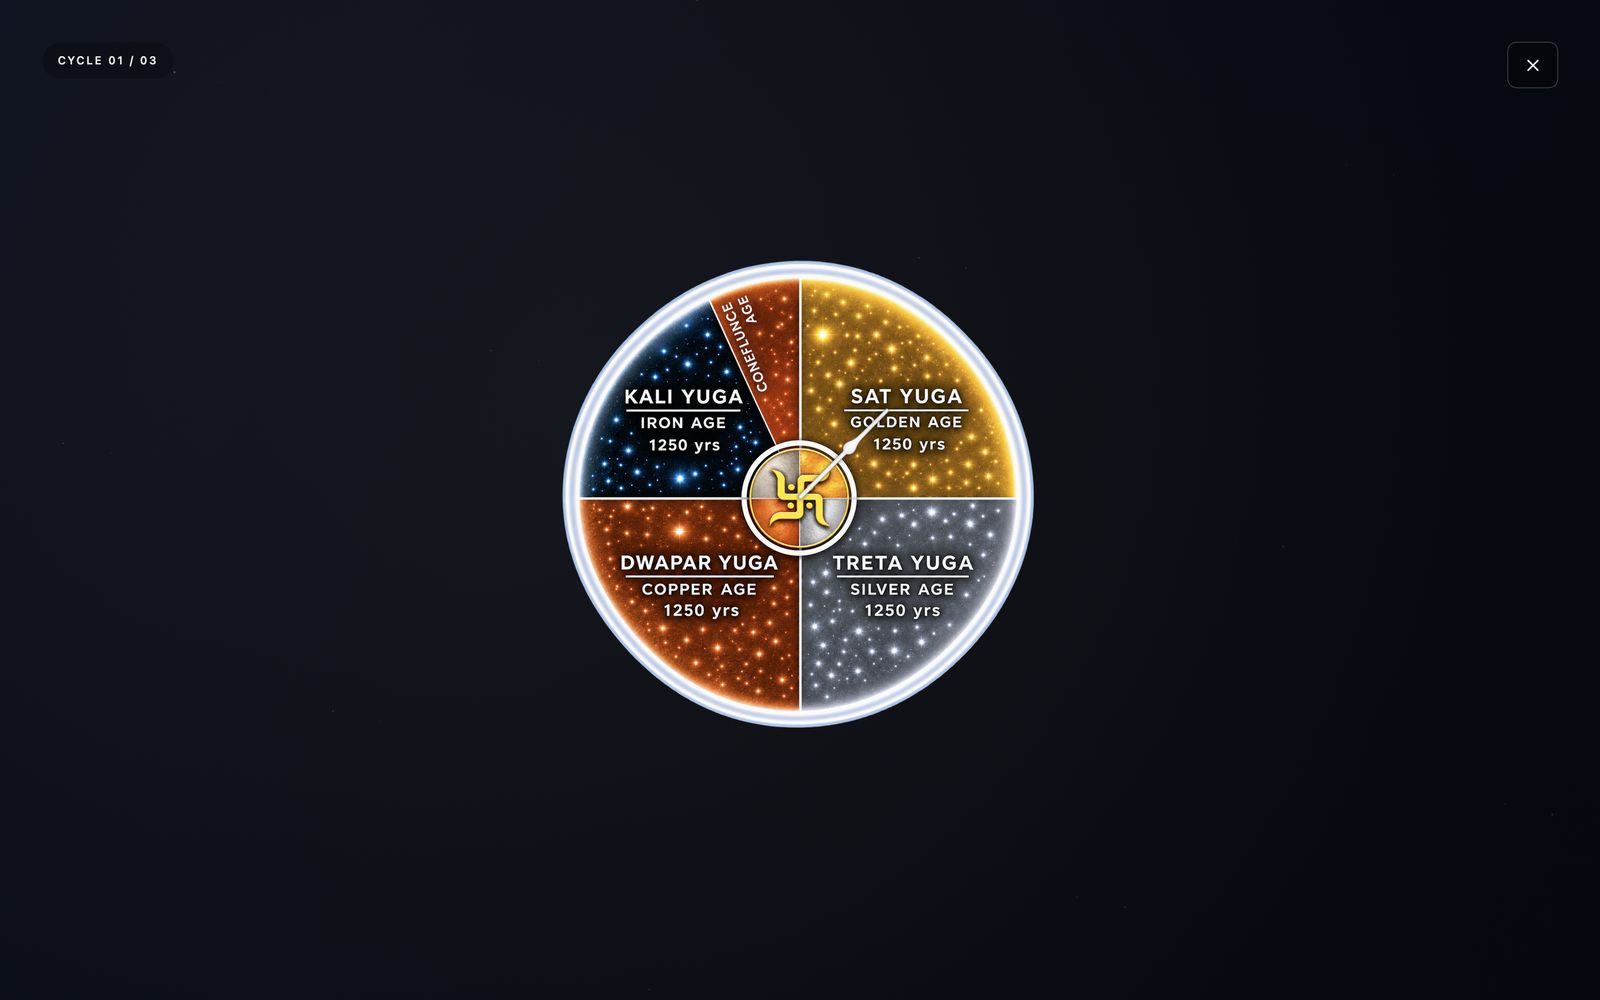
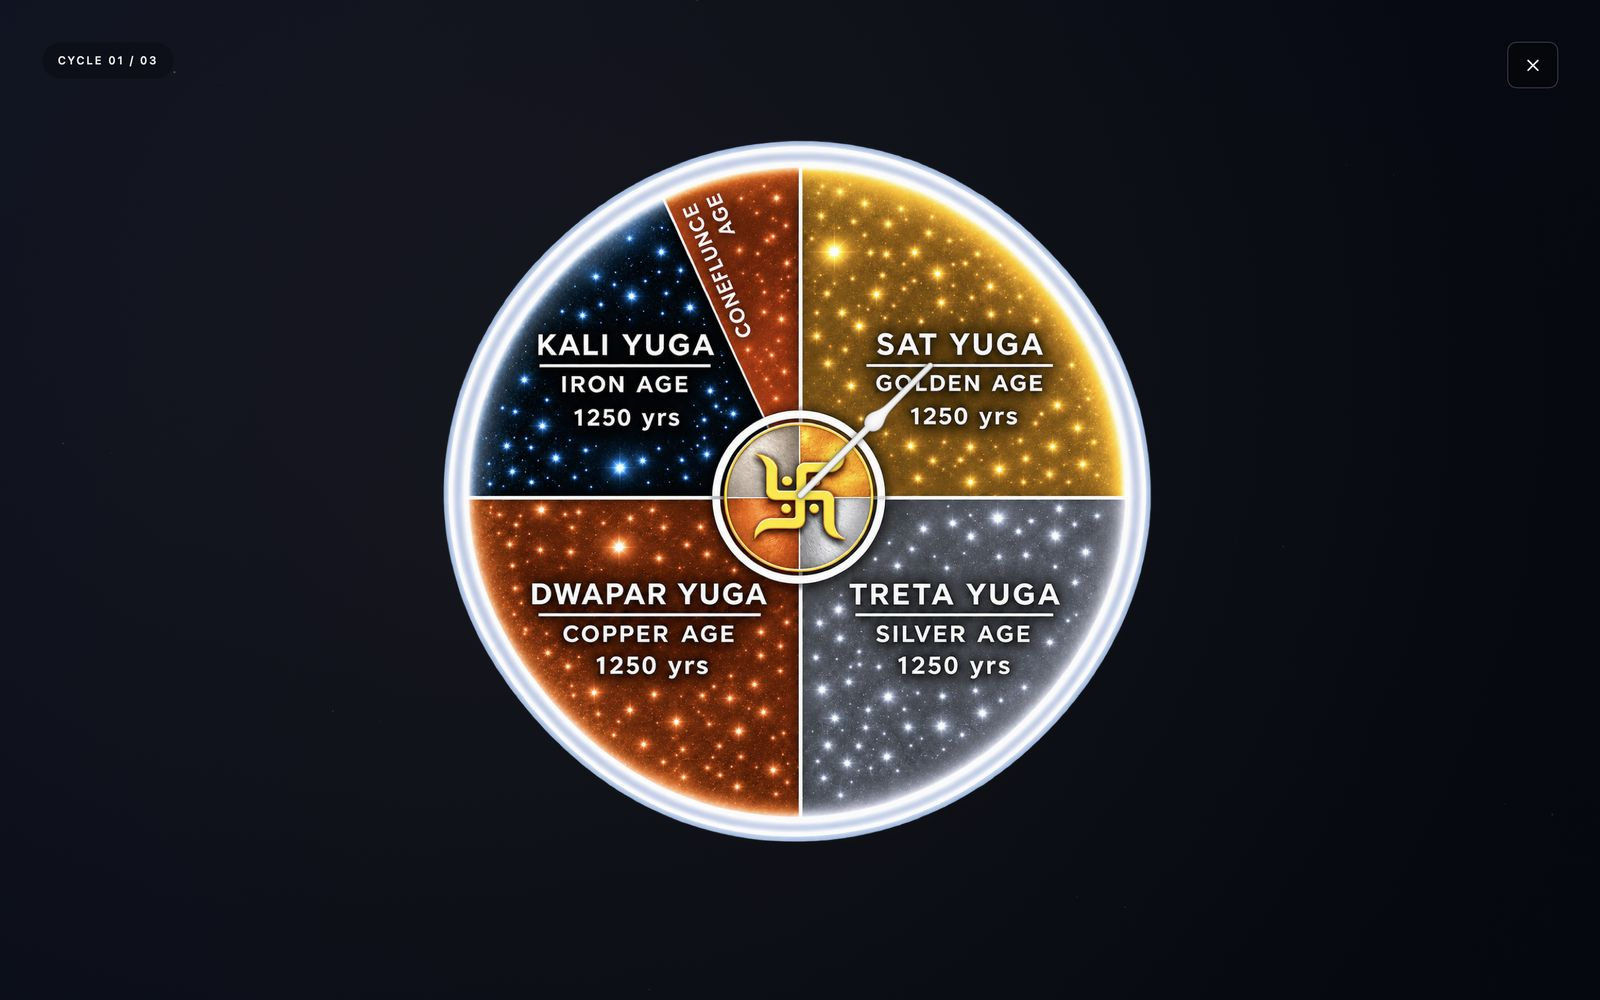
Make the cycle-of-ages dial 50% larger
The card before each step now gives the dial 72% of the window's shorter
side, from 330 to 780 points (it was 48%, from 220 to 520), so on a
2560x1440 screen it is 780 points across instead of 520.

The website follows the same rule. On a short window, such as a phone on
its side, the dial stays below the corner box, and on the narrowest
phones it keeps a 16px margin. The website's yuga chakra is now the full
1,254-pixel picture, so it stays sharp at the larger size.

The README screenshot and VERIFICATION.md are updated to match.

Changed region(s): [[0.25, 0.124, 0.7188, 0.868]]

diff --git a/Sources/SwadarshanChakra/DialCardView.swift b/Sources/SwadarshanChakra/DialCardView.swift
@@ -24,7 +24,7 @@ struct DialCardView: View {
                 MeditationBackground()
 
                 YugaDial(face: artwork.dialFace, hand: artwork.dialHand, angle: turned ? to : from,
-                         side: min(520, max(220, min(size.width, size.height) * 0.48)))
+                         side: min(780, max(330, min(size.width, size.height) * 0.72)))
                     .accessibilityElement(children: .ignore)
                     .accessibilityLabel("Step \(engine.stageIndex + 1) of 5. On the cycle of ages, the hand \(from == to ? "points" : "turns") to \(YugaDial.places[engine.stageIndex]).")
                     .accessibilityIdentifier("dial-card")

diff --git a/web/app.css b/web/app.css
@@ -978,7 +978,9 @@ button { cursor: pointer; }
 }
 
 .yuga-dial {
-  --dial: clamp(220px, 48vmin, 520px);
+  /* As in the app, 72% of the window's shorter side, from 330px to 780px. On the narrowest phones it
+     keeps a 16px margin, and on a short window, such as a phone on its side, it stays below the corner box. */
+  --dial: min(clamp(min(330px, 100vw - 32px), 72vmin, 780px), 100vh - 2 * (var(--edge) + 48px));
   position: relative;
   flex: none;
   width: var(--dial);

diff --git a/web/index.html b/web/index.html
@@ -213,7 +213,7 @@
         </button>
       </div>
       <div id="yuga-dial" class="yuga-dial" role="img">
-        <img class="yuga-dial-face" src="images/yuga-chakra.webp" width="512" height="512" alt="">
+        <img class="yuga-dial-face" src="images/yuga-chakra.webp" width="1254" height="1254" alt="">
         <img id="yuga-dial-hand" class="yuga-dial-hand" src="images/hour-hand.webp" width="181" height="543" alt="">
       </div>
     </section>

diff --git a/VERIFICATION.md b/VERIFICATION.md
@@ -8,7 +8,7 @@ Validated on this Mac with macOS 27.2, Apple Silicon, and Swift 6.3.3. The app's
 | Packaged release native integration | 43 checks passed on version 1.1.1; updated for cycle cards and total time in 1.2.0, not yet re-run |
 | Total time | Shared equally by every step; the planned total stays exact for uneven splits (10 minutes for 7 cycles); minimum of 1 second per step, 600-minute maximum, mode switching that keeps the practice, and saved-setting fallback covered |
 | Cycle cards | Every cycle opens with a "Cycle N" card, then step 1's own card; neither uses practice time. Space on either begins the first step at once, pausing begins the cycle with a full first step, a key press at the cards' end is coalesced, and the last cycle ends in completion |
-| Cards before steps | Step 1's card follows the cycle card for three seconds, its hand standing at the top without turning: in headless Chromium the hand's rotation stayed at 0°, and step 1 began three seconds later with its full time. Steps 2 to 5 each open with a three-second card of their own: the supplied yuga chakra, with the supplied white hour hand turning on its base at the swastika's centre (measured at 627.5, 619.5 in the 1,254-pixel picture). The hand turns clockwise from the step just finished to the next: from the top (step 1) to the middle of Sat Yuga (45°), Dwapar Yuga (225°), the Confluence Age's wedge (348°; the wedge spans 336° to 360°), and back to the top (step 5). Its tip reaches 26% of the dial's width from the centre. Like the cycle card, the card is not practice time: Space begins the step at once, Esc pauses into it with its full time, a key press at the card's end is coalesced, and after step 5 the cycle card comes instead. Covered by the core and web engine checks. The live timer check measured the card at three seconds before a full second step. The layout captures show each of the four turns once it has ended, and one partway through. In headless Chromium, under the site's headers (25 checks), the hand's computed rotation started where the last step stands, was 19.6° a second into the turn to Sat Yuga, and ended at 45°; it passed 110.8° on its way from 45° to 225°; it started afresh after a card was left early; and the dial fitted at 1024×640, 390×844, and 844×390. The supplied picture spells the wedge "CONEFLUNCE AGE"; it is shown as supplied |
+| Cards before steps | Step 1's card follows the cycle card for three seconds, its hand standing at the top without turning: in headless Chromium the hand's rotation stayed at 0°, and step 1 began three seconds later with its full time. Steps 2 to 5 each open with a three-second card of their own: the supplied yuga chakra, with the supplied white hour hand turning on its base at the swastika's centre (measured at 627.5, 619.5 in the 1,254-pixel picture). The hand turns clockwise from the step just finished to the next: from the top (step 1) to the middle of Sat Yuga (45°), Dwapar Yuga (225°), the Confluence Age's wedge (348°; the wedge spans 336° to 360°), and back to the top (step 5). Its tip reaches 26% of the dial's width from the centre, and the dial takes 72% of the window's shorter side, from 330 to 780 points. Like the cycle card, the card is not practice time: Space begins the step at once, Esc pauses into it with its full time, a key press at the card's end is coalesced, and after step 5 the cycle card comes instead. Covered by the core and web engine checks. The live timer check measured the card at three seconds before a full second step. The layout captures show each of the four turns once it has ended, and one partway through. In headless Chromium, under the site's headers (32 checks), the hand's computed rotation started where the last step stands, was 20.1° a second into the turn to Sat Yuga, and ended at 45°; it passed 112.1° on its way from 45° to 225°; it started afresh after a card was left early; and the dial measured 780 pixels across at 2560×1440, 648 at 1440×900, 461 at 1024×640, and 330 at 390×844, each time below the corner box, and 246 on a phone on its side (844×390), where it is kept below the corner box. The supplied picture spells the wedge "CONEFLUNCE AGE"; it is shown as supplied |
 | Freestyle | A third choice in the time menu: no timer. A step never ends by itself (none did after 3,997 seconds) and Space moves on; cycle cards still last three seconds; practiced time counts every step in full, with no planned time, and the completion screen shows only the time practiced. The time fields are hidden but kept, so choosing a timer again brings the same time back, converted if the mode changed; freestyle and that time are both remembered. Covered by the core and web checks, headless Chromium, and layout captures; in the app also by the updated smoke test, not yet run |
 | Native full screen | Window style and system state both confirm native full-screen mode; `NSMenu.menuBarVisible()` confirms the menu bar is hidden; Dock auto-hide is enabled (1.1.1 run). Leaving full screen into an ordinary window and the "Open in full screen" setting are covered by the updated smoke test, not yet run |
 | Window lifecycle | Closing ends any practice at once and leaves the app in the menu bar, which opens the setup screen again. This covers every way of closing: the × on every screen, Close on the completion screen, the red window button, ⌘W, and Esc on setup or completion. ⌘Q still asks before ending a practice and quitting. The updated smoke test covers closing during a practice, reopening setup from the menu bar, and Esc on setup, but has not been run with these changes. Reopening during a full-screen exit passed in the 1.1.1 run |
@@ -26,7 +26,7 @@ Validated on this Mac with macOS 27.2, Apple Silicon, and Swift 6.3.3. The app's
 | Practiced time | Every running step counts, and so does every pause while the practitioner is with the practice: the window in front, and the Mac awake and unlocked (on the web, the page visible and focused). Leaving stops a pause from counting until they are back; cycle cards and confirmations never count. In the core checks a 440-second absence in the middle of a pause is left out exactly. In headless Chromium a 2-second pause raised a freestyle practice to 5 seconds, and a pause with the page hidden for 3 seconds in the middle completed at 3 seconds, not 6. In the app, window focus, sleep, display sleep, the user session, and the screen lock all report presence; the updated smoke test covers window focus, sleep, and the lock handlers but has not been run |
 | Web version | `web/engine.js` passes 27 Node checks that mirror the core checks. Freestyle, the countdown-bar setting, the pause screen's keys, practiced time with the page hidden, and saved settings were driven in headless Chromium under the site's headers (23 checks), and the earlier Esc checks still pass (16); both were run again with the cards before steps. A full practice was driven in headless Chromium through the DevTools protocol at 1440×900, 1024×640, and 390×844. It covered setup, total-time summaries and validation, cycle cards, Space, Esc, Return, restart and end confirmation, and completion, with no console errors or Content Security Policy violations. The step bar was sampled with 8-second steps under the site's real headers: it empties at the timer's rate (within 1%), holds still on Esc, continues from the same place on Return, and starts full after Space and after a step runs out, at 1440×900 and 390×844. Safari, Firefox, and real full-screen mode in a browser have not been tried |
 | Website deployment | The website workflow deploys to Firebase Hosting with the `github-deploy` service account key. After its runs for commits 759b96e and 2063191, the live `index.html`, `app.js`, `app.css`, and `engine.js` matched the repository byte for byte |
-| Original artwork | All five embedded images match the supplied files byte for byte, and so do the bundled yuga chakra and hour hand. The website uses smaller copies of those two (512 and 543 pixels, WebP) |
+| Original artwork | All five embedded images match the supplied files byte for byte, and so do the bundled yuga chakra and hour hand. The website uses WebP copies of those two: the yuga chakra at its full 1,254 pixels, so it stays sharp at 780 points on a Retina screen, and the hand at 543 pixels |
 | Supplied branding | Bundled `Branding/icon.png` matches the owner's original exactly; the header, dialogs, menu bar, and application icon use that supplied image |
 | System app icon (1.1.2) | Actual macOS icon renders inspected at 32 px and 256 px; the chakra is larger with a narrower white rim, and the release signature passes |
 | Bundled resources | Release app successfully decoded all five images, the yuga chakra, and the hour hand from its own Contents/Resources directory |
